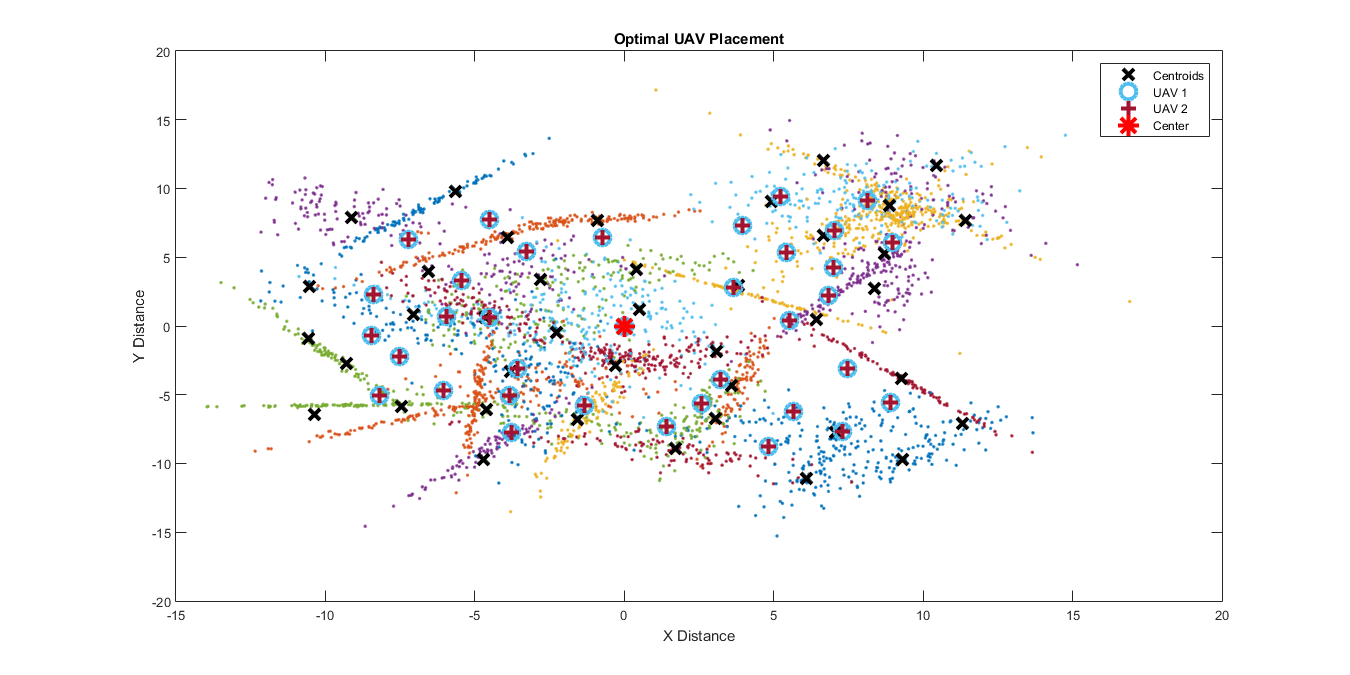
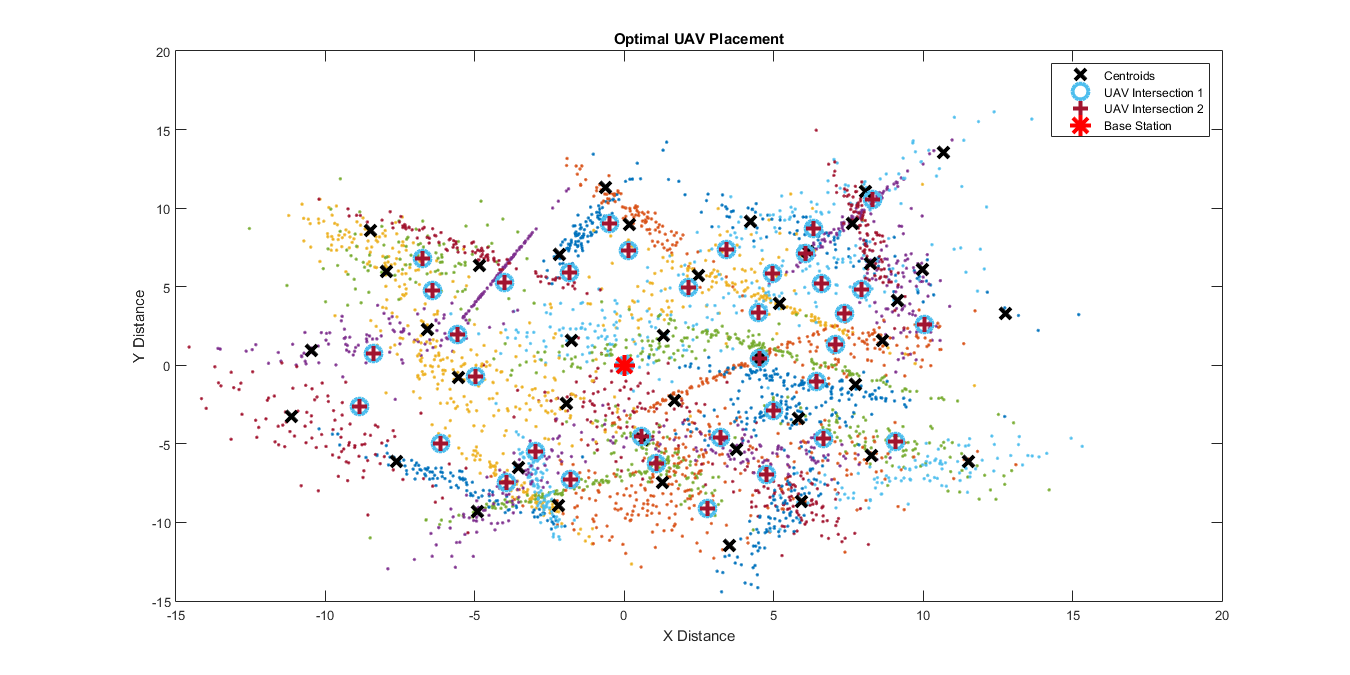
Added the html documentation.

diff --git a/html/uav_placement.html b/html/uav_placement.html
@@ -6,7 +6,7 @@
    <!--
 This HTML was auto-generated from MATLAB code.
 To make changes, update the MATLAB code and republish this document.
-      --><title>uav_placement</title><meta name="generator" content="MATLAB 8.5"><link rel="schema.DC" href="http://purl.org/dc/elements/1.1/"><meta name="DC.date" content="2020-10-03"><meta name="DC.source" content="uav_placement.m"><style type="text/css">
+      --><title>uav_placement</title><meta name="generator" content="MATLAB 8.5"><link rel="schema.DC" href="http://purl.org/dc/elements/1.1/"><meta name="DC.date" content="2020-10-06"><meta name="DC.source" content="uav_placement.m"><style type="text/css">
 html,body,div,span,applet,object,iframe,h1,h2,h3,h4,h5,h6,p,blockquote,pre,a,abbr,acronym,address,big,cite,code,del,dfn,em,font,img,ins,kbd,q,s,samp,small,strike,strong,sub,sup,tt,var,b,u,i,center,dl,dt,dd,ol,ul,li,fieldset,form,label,legend,table,caption,tbody,tfoot,thead,tr,th,td{margin:0;padding:0;border:0;outline:0;font-size:100%;vertical-align:baseline;background:transparent}body{line-height:1}ol,ul{list-style:none}blockquote,q{quotes:none}blockquote:before,blockquote:after,q:before,q:after{content:'';content:none}:focus{outine:0}ins{text-decoration:none}del{text-decoration:line-through}table{border-collapse:collapse;border-spacing:0}
 
 html { min-height:100%; margin-bottom:1px; }
@@ -66,7 +66,7 @@ table td { padding:7px 5px; text-align:left; vertical-align:top; border:1px soli
 
 
 
-  </style></head><body><div class="content"><h2>Contents</h2><div><ul><li><a href="#1">Creating a new environment</a></li><li><a href="#2">Functions Created: generate_data</a></li><li><a href="#3">Functions Created for the Assignment: optimal_points</a></li><li><a href="#4">Generating the data from each of the 2D Gaussian Distributions.</a></li><li><a href="#5">Plotting each of the Gaussian Dsitributions.</a></li><li><a href="#6">Getting the K-Means Centroids</a></li><li><a href="#7">Plotting the K-Means Centroids</a></li><li><a href="#8">Getting the optimal UAV locations.</a></li><li><a href="#9">Plotting the optimal UAV placement locations</a></li></ul></div><h2>Creating a new environment<a name="1"></a></h2><pre class="codeinput">clc;
+  </style></head><body><div class="content"><h2>Contents</h2><div><ul><li><a href="#1">Creating a new environment</a></li><li><a href="#2">Functions Created: generate_data</a></li><li><a href="#3">Functions Created: optimal_points</a></li><li><a href="#4">Generating the data from each of the 2D Gaussian Distributions.</a></li><li><a href="#5">Plotting each of the Gaussian Dsitributions.</a></li><li><a href="#6">Getting the K-Means Centroids</a></li><li><a href="#7">Plotting the K-Means Centroids</a></li><li><a href="#8">Getting the optimal UAV locations.</a></li><li><a href="#9">Plotting the optimal UAV placement locations</a></li></ul></div><h2>Creating a new environment<a name="1"></a></h2><pre class="codeinput">clc;
 clear <span class="string">all</span>;
 close <span class="string">all</span>;
 </pre><h2>Functions Created: generate_data<a name="2"></a></h2><pre class="language-matlab">
@@ -115,7 +115,7 @@ close <span class="string">all</span>;
         data = [data; data_per_cluster];
     <span class="keyword">end</span>
 
-</pre><h2>Functions Created for the Assignment: optimal_points<a name="3"></a></h2><pre class="language-matlab">
+</pre><h2>Functions Created: optimal_points<a name="3"></a></h2><pre class="language-matlab">
 <span class="comment">% Function that returns the points that the UAV should either stay or</span>
 <span class="comment">% travel to and fro</span>
 
@@ -247,8 +247,8 @@ hold <span class="string">on</span>;
 p_center = plot(0, 0, <span class="string">'r*'</span>, <span class="string">'MarkerSize'</span>, 15, <span class="string">'LineWidth'</span>, 3);
 hold <span class="string">off</span>;
 
-legend([p_centroid, p_uav_1, p_uav_2, p_center], <span class="string">'Centroids'</span>, <span class="string">'UAV 1'</span>, <span class="keyword">...</span>
-    <span class="string">'UAV 2'</span>, <span class="string">'Center'</span>);
+legend([p_centroid, p_uav_1, p_uav_2, p_center], <span class="string">'Centroids'</span>, <span class="keyword">...</span>
+    <span class="string">'UAV Intersection 1'</span>, <span class="string">'UAV Intersection 2'</span>, <span class="string">'Base Station'</span>);
 title(<span class="string">'Optimal UAV Placement'</span>);
 xlabel(<span class="string">'X Distance'</span>);
 ylabel(<span class="string">'Y Distance'</span>);
@@ -263,7 +263,7 @@ close all;
 %% Functions Created: generate_data
 % <include>generate_data.m</include>
 
-%% Functions Created for the Assignment: optimal_points
+%% Functions Created: optimal_points
 % <include>optimal_points.m</include>
 
 %% Generating the data from each of the 2D Gaussian Distributions.
@@ -359,8 +359,8 @@ hold on;
 p_center = plot(0, 0, 'r*', 'MarkerSize', 15, 'LineWidth', 3);
 hold off;
 
-legend([p_centroid, p_uav_1, p_uav_2, p_center], 'Centroids', 'UAV 1', ... 
-    'UAV 2', 'Center');
+legend([p_centroid, p_uav_1, p_uav_2, p_center], 'Centroids', ... 
+    'UAV Intersection 1', 'UAV Intersection 2', 'Base Station');
 title('Optimal UAV Placement');
 xlabel('X Distance');
 ylabel('Y Distance');
